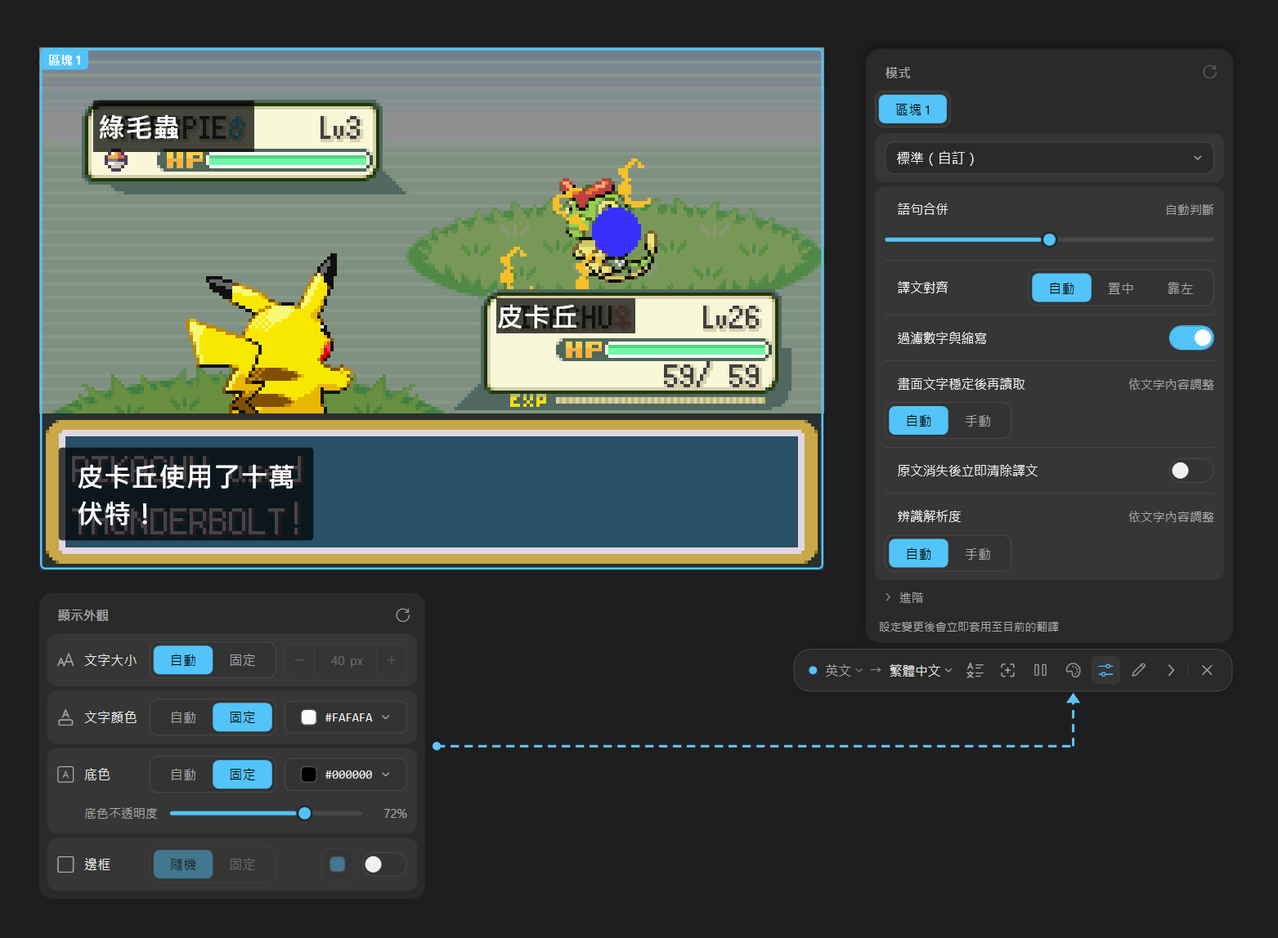
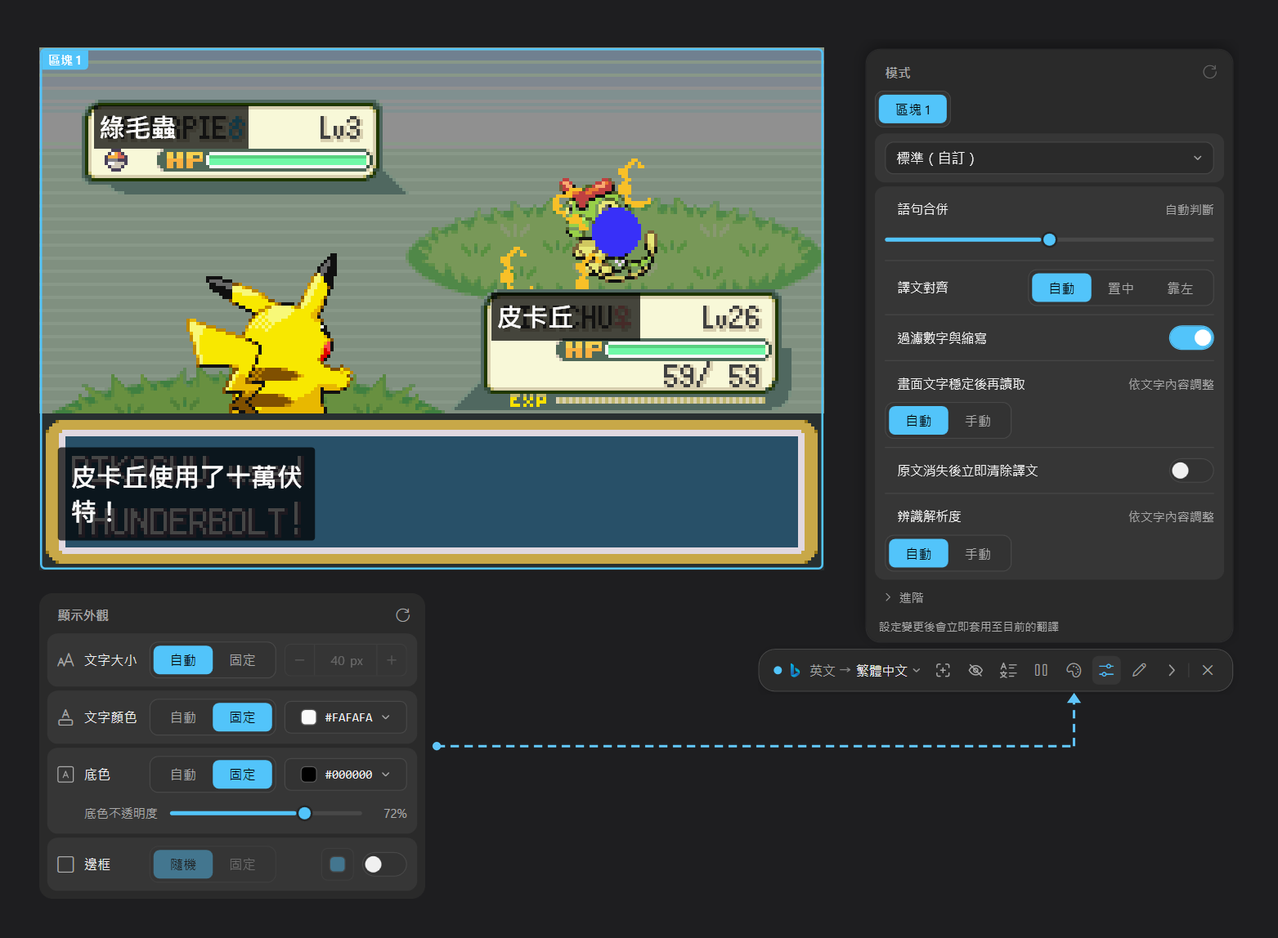
chore: 2.14.0 README 與官網補上德西法義葡辨識語言與即時翻譯翻譯中可隨時調整的說明，重拍設定頁、即時翻譯功能預覽與備援截圖

diff --git a/tools/site-i18n/ja.js b/tools/site-i18n/ja.js
@@ -35,6 +35,11 @@ otLocale('ja', {
   'capture.langs.en': '英語',
   'capture.langs.ja': '日本語',
   'capture.langs.ko': '韓国語',
+  'capture.langs.de': 'ドイツ語',
+  'capture.langs.es': 'スペイン語',
+  'capture.langs.fr': 'フランス語',
+  'capture.langs.it': 'イタリア語',
+  'capture.langs.pt': 'ポルトガル語',
   'capture.langs.ru': 'ロシア語',
   'capture.langs.uk': 'ウクライナ語',
   'capture.langs.more': 'すべて表示',
@@ -52,8 +57,8 @@ otLocale('ja', {
   'realtime.lede': '翻訳したい範囲を選ぶと、画面の文字を読み取り続けて訳文を自動で更新します。動画の字幕、ゲーム画面、マンガに向いており、訳文は元の位置にオーバーレイ表示されます。',
   'realtime.fact1.title': '2 つの取り込み方法',
   'realtime.fact1.body': '画面全体、または指定したウィンドウだけを取り込めます。',
-  'realtime.fact2.title': 'いつでも一時停止・再開',
-  'realtime.fact2.body': '一時停止すれば、終了せずに原文をそのまま見られます。',
+  'realtime.fact2.title': '翻訳中もいつでも調整',
+  'realtime.fact2.body': '翻訳サービス・言語・表示スタイルをその場で切り替えられ、やり直す必要はありません。',
   'realtime.mode.title': '画面の種類別に紹介',
   'realtime.mode.float': '種類',
   'realtime.mode.prose': '字幕・マンガ',
@@ -65,8 +70,8 @@ otLocale('ja', {
   'realtime.side.title': '原文対照で、訳文を別枠に表示',
   'realtime.side.body': 'フローティングバーの「原文対照」をオンにすると、元の画面はそのままに、訳文を独立した対照枠に表示します。原文と訳文を見比べるのに便利です。',
   'realtime.side.note': '対照枠は自由にドラッグ・拡大縮小でき、ブロックごとに閉じることもできます。',
-  'realtime.look.title': '翻訳中でもモードと表示をいつでも調整',
-  'realtime.look.body': 'フローティングバーからモードと表示スタイルのパネルを開くと、いつでも設定を調整でき、変更はすぐ現在の翻訳に反映されます。ブロックごとに別のモードも選べます。',
+  'realtime.look.title': '翻訳中でもいつでも調整',
+  'realtime.look.body': 'フローティングバーから翻訳サービスや言語の切り替え、モードや表示スタイルの調整ができ、訳文を非表示にして元の画面を確認したり、一時停止したりもできます。変更はすぐに反映され、やり直す必要はありません。',
   'more.lookup.title': 'テキストを選んで、ワンキーで翻訳',
   'more.lookup.tick1.title': '選んだテキストをそのまま読み込み',
   'more.lookup.tick1.body': 'テキストを選んでショートカットキーを押すと、自動で読み込んで訳文を表示します。コピーや貼り付けは不要です。',

diff --git a/tools/site-i18n/ko.js b/tools/site-i18n/ko.js
@@ -35,6 +35,11 @@ otLocale('ko', {
   'capture.langs.en': '영어',
   'capture.langs.ja': '일본어',
   'capture.langs.ko': '한국어',
+  'capture.langs.de': '독일어',
+  'capture.langs.es': '스페인어',
+  'capture.langs.fr': '프랑스어',
+  'capture.langs.it': '이탈리아어',
+  'capture.langs.pt': '포르투갈어',
   'capture.langs.ru': '러시아어',
   'capture.langs.uk': '우크라이나어',
   'capture.langs.more': '모두 보기',
@@ -52,8 +57,8 @@ otLocale('ko', {
   'realtime.lede': '번역할 영역을 지정하면 화면의 글자를 계속 인식해 번역문을 자동으로 갱신합니다. 영상 자막, 게임 화면, 만화 읽기에 적합하며 번역문은 원래 위치에 오버레이로 표시됩니다.',
   'realtime.fact1.title': '두 가지 가져오기 방식',
   'realtime.fact1.body': '전체 화면을 가져오거나 특정 창만 지정할 수 있습니다.',
-  'realtime.fact2.title': '언제든 일시 정지와 재개',
-  'realtime.fact2.body': '일시 정지하면 종료하지 않고 원문을 볼 수 있습니다.',
+  'realtime.fact2.title': '번역 중에도 언제든 조정',
+  'realtime.fact2.body': '번역 서비스, 언어, 표시 모양을 바로 바꿀 수 있어 다시 시작할 필요가 없습니다.',
   'realtime.mode.title': '화면 유형별 예시',
   'realtime.mode.float': '유형',
   'realtime.mode.prose': '자막·만화',
@@ -65,8 +70,8 @@ otLocale('ko', {
   'realtime.side.title': '원문 대조, 번역문은 따로 표시',
   'realtime.side.body': '플로팅 바의 「원문 대조」를 켜면 원래 화면은 그대로 두고 번역문을 별도의 대조 상자에 표시해, 원문과 번역 결과를 비교하기 쉽습니다.',
   'realtime.side.note': '대조 상자는 자유롭게 드래그하거나 크기를 조절할 수 있고, 블록별로 닫을 수도 있습니다.',
-  'realtime.look.title': '번역 중에도 모드와 표시 모양을 언제든 조정',
-  'realtime.look.body': '플로팅 바에서 모드와 표시 모양 패널을 열어 언제든 설정을 조정할 수 있으며, 변경 사항은 현재 번역에 바로 적용됩니다. 블록마다 다른 모드를 선택할 수도 있습니다.',
+  'realtime.look.title': '번역 중에도 언제든 조정',
+  'realtime.look.body': '플로팅 바에서 번역 서비스와 언어를 바꾸고 모드와 표시 모양을 조정할 수 있으며, 번역문을 숨겨 원래 화면을 보거나 일시 정지할 수도 있습니다. 변경 사항은 바로 적용되어 다시 시작할 필요가 없습니다.',
   'more.lookup.title': '텍스트를 선택하고 키 하나로 번역',
   'more.lookup.tick1.title': '선택한 텍스트를 자동으로 불러오기',
   'more.lookup.tick1.body': '텍스트를 선택하고 단축키를 누르면 자동으로 불러와 번역문을 보여 줍니다. 복사해서 붙여 넣을 필요가 없습니다.',

diff --git a/docs/ja/index.html b/docs/ja/index.html
@@ -235,6 +235,11 @@
             <li data-i18n="capture.langs.en">英語</li>
             <li data-i18n="capture.langs.ja">日本語</li>
             <li data-i18n="capture.langs.ko">韓国語</li>
+            <li data-i18n="capture.langs.de">ドイツ語</li>
+            <li data-i18n="capture.langs.es">スペイン語</li>
+            <li data-i18n="capture.langs.fr">フランス語</li>
+            <li data-i18n="capture.langs.it">イタリア語</li>
+            <li data-i18n="capture.langs.pt">ポルトガル語</li>
             <li data-i18n="capture.langs.ru">ロシア語</li>
             <li data-i18n="capture.langs.uk">ウクライナ語</li>
             <li class="langs__toggle" hidden><button type="button" class="langs__more" aria-expanded="false" data-less="閉じる" data-i18n-attr="data-less|capture.langs.less" data-i18n="capture.langs.more">すべて表示</button></li>
@@ -316,8 +321,8 @@
         <p data-i18n="realtime.fact1.body">画面全体、または指定したウィンドウだけを取り込めます。</p>
       </div>
       <div class="fact">
-        <h3 data-i18n="realtime.fact2.title">いつでも一時停止・再開</h3>
-        <p data-i18n="realtime.fact2.body">一時停止すれば、終了せずに原文をそのまま見られます。</p>
+        <h3 data-i18n="realtime.fact2.title">翻訳中もいつでも調整</h3>
+        <p data-i18n="realtime.fact2.body">翻訳サービス・言語・表示スタイルをその場で切り替えられ、やり直す必要はありません。</p>
       </div>
     </div>
 
@@ -465,8 +470,8 @@
 
     <div class="split subsection reveal">
       <div class="split__text">
-        <h3 class="h3" data-i18n="realtime.look.title">翻訳中でもモードと表示をいつでも調整</h3>
-        <p data-i18n="realtime.look.body">フローティングバーからモードと表示スタイルのパネルを開くと、いつでも設定を調整でき、変更はすぐ現在の翻訳に反映されます。ブロックごとに別のモードも選べます。</p>
+        <h3 class="h3" data-i18n="realtime.look.title">翻訳中でもいつでも調整</h3>
+        <p data-i18n="realtime.look.body">フローティングバーから翻訳サービスや言語の切り替え、モードや表示スタイルの調整ができ、訳文を非表示にして元の画面を確認したり、一時停止したりもできます。変更はすぐに反映され、やり直す必要はありません。</p>
       </div>
       <div class="split__media">
         <figure class="shot shot--app">

diff --git a/tools/site-i18n/en.js b/tools/site-i18n/en.js
@@ -35,6 +35,11 @@ otLocale('en', {
   'capture.langs.en': 'English',
   'capture.langs.ja': 'Japanese',
   'capture.langs.ko': 'Korean',
+  'capture.langs.de': 'German',
+  'capture.langs.es': 'Spanish',
+  'capture.langs.fr': 'French',
+  'capture.langs.it': 'Italian',
+  'capture.langs.pt': 'Portuguese',
   'capture.langs.ru': 'Russian',
   'capture.langs.uk': 'Ukrainian',
   'capture.langs.more': 'Show all',
@@ -52,8 +57,8 @@ otLocale('en', {
   'realtime.lede': 'Select the area to translate and the text on screen is recognised continuously, with the translation updating on its own. Made for video subtitles, game screens and reading manga, with the translation shown as an overlay right where the original was.',
   'realtime.fact1.title': 'Two capture sources',
   'realtime.fact1.body': 'Capture the whole screen, or just one window.',
-  'realtime.fact2.title': 'Pause and resume any time',
-  'realtime.fact2.body': 'Pausing shows the original text without shutting it down.',
+  'realtime.fact2.title': 'Adjust while translating',
+  'realtime.fact2.body': 'Switch the translation service, languages and appearance on the fly, without starting over.',
   'realtime.mode.title': 'Examples by screen type',
   'realtime.mode.float': 'Type',
   'realtime.mode.prose': 'Subtitles & Comics',
@@ -65,8 +70,8 @@ otLocale('en', {
   'realtime.side.title': 'Compare with original, translation shown separately',
   'realtime.side.body': 'Turn on "Compare with original" from the floating bar to keep the original screen as it is and show the translation in a separate compare box, so the two are easy to check against each other.',
   'realtime.side.note': 'The compare box can be dragged, resized or closed individually.',
-  'realtime.look.title': 'Change modes and appearance mid-translation',
-  'realtime.look.body': 'Open the Mode and Appearance panels from the floating bar to adjust settings at any time; changes apply to the current translation right away. Each block can use its own mode.',
+  'realtime.look.title': 'Adjust anything mid-translation',
+  'realtime.look.body': 'From the floating bar, switch the translation service and languages, adjust the mode and appearance, or hide the translation to see the original screen or pause; changes apply right away, without starting over.',
   'more.lookup.title': 'Select text, translate in one keystroke',
   'more.lookup.tick1.title': 'Picks up what you selected',
   'more.lookup.tick1.body': 'Select some text and press the hotkey: it is filled in and translated, with no copying and pasting.',

diff --git a/docs/ko/index.html b/docs/ko/index.html
@@ -235,6 +235,11 @@
             <li data-i18n="capture.langs.en">영어</li>
             <li data-i18n="capture.langs.ja">일본어</li>
             <li data-i18n="capture.langs.ko">한국어</li>
+            <li data-i18n="capture.langs.de">독일어</li>
+            <li data-i18n="capture.langs.es">스페인어</li>
+            <li data-i18n="capture.langs.fr">프랑스어</li>
+            <li data-i18n="capture.langs.it">이탈리아어</li>
+            <li data-i18n="capture.langs.pt">포르투갈어</li>
             <li data-i18n="capture.langs.ru">러시아어</li>
             <li data-i18n="capture.langs.uk">우크라이나어</li>
             <li class="langs__toggle" hidden><button type="button" class="langs__more" aria-expanded="false" data-less="접기" data-i18n-attr="data-less|capture.langs.less" data-i18n="capture.langs.more">모두 보기</button></li>
@@ -316,8 +321,8 @@
         <p data-i18n="realtime.fact1.body">전체 화면을 가져오거나 특정 창만 지정할 수 있습니다.</p>
       </div>
       <div class="fact">
-        <h3 data-i18n="realtime.fact2.title">언제든 일시 정지와 재개</h3>
-        <p data-i18n="realtime.fact2.body">일시 정지하면 종료하지 않고 원문을 볼 수 있습니다.</p>
+        <h3 data-i18n="realtime.fact2.title">번역 중에도 언제든 조정</h3>
+        <p data-i18n="realtime.fact2.body">번역 서비스, 언어, 표시 모양을 바로 바꿀 수 있어 다시 시작할 필요가 없습니다.</p>
       </div>
     </div>
 
@@ -465,8 +470,8 @@
 
     <div class="split subsection reveal">
       <div class="split__text">
-        <h3 class="h3" data-i18n="realtime.look.title">번역 중에도 모드와 표시 모양을 언제든 조정</h3>
-        <p data-i18n="realtime.look.body">플로팅 바에서 모드와 표시 모양 패널을 열어 언제든 설정을 조정할 수 있으며, 변경 사항은 현재 번역에 바로 적용됩니다. 블록마다 다른 모드를 선택할 수도 있습니다.</p>
+        <h3 class="h3" data-i18n="realtime.look.title">번역 중에도 언제든 조정</h3>
+        <p data-i18n="realtime.look.body">플로팅 바에서 번역 서비스와 언어를 바꾸고 모드와 표시 모양을 조정할 수 있으며, 번역문을 숨겨 원래 화면을 보거나 일시 정지할 수도 있습니다. 변경 사항은 바로 적용되어 다시 시작할 필요가 없습니다.</p>
       </div>
       <div class="split__media">
         <figure class="shot shot--app">

diff --git a/tools/site-i18n/zh-Hans.js b/tools/site-i18n/zh-Hans.js
@@ -35,6 +35,11 @@ otLocale('zh-Hans', {
   'capture.langs.en': '英文',
   'capture.langs.ja': '日文',
   'capture.langs.ko': '韩文',
+  'capture.langs.de': '德文',
+  'capture.langs.es': '西班牙文',
+  'capture.langs.fr': '法文',
+  'capture.langs.it': '意大利文',
+  'capture.langs.pt': '葡萄牙文',
   'capture.langs.ru': '俄文',
   'capture.langs.uk': '乌克兰文',
   'capture.langs.more': '查看全部',
@@ -52,8 +57,8 @@ otLocale('zh-Hans', {
   'realtime.lede': '框选翻译区域后，持续识别画面文字并自动更新译文。适用于视频字幕、游戏画面与漫画阅读，译文直接显示于原位置。',
   'realtime.fact1.title': '两种画面来源',
   'realtime.fact1.body': '可抓取整个屏幕，或指定单一窗口。',
-  'realtime.fact2.title': '随时暂停与继续',
-  'realtime.fact2.body': '暂停时可直接查看原文，不必关闭。',
+  'realtime.fact2.title': '翻译中随时调整',
+  'realtime.fact2.body': '翻译服务、语言与外观都能直接切换，不必重新开始。',
   'realtime.mode.title': '按画面类型展示',
   'realtime.mode.float': '类型',
   'realtime.mode.prose': '字幕・漫画',
@@ -65,8 +70,8 @@ otLocale('zh-Hans', {
   'realtime.side.title': '原文对照，译文独立显示',
   'realtime.side.body': '通过浮动窗口栏的「原文对照」功能，可保留原始画面，并将译文显示在独立的对照框中，方便比对原文与翻译结果。',
   'realtime.side.note': '对照框可自由拖动、缩放或单独关闭。',
-  'realtime.look.title': '翻译中也能随时调整模式与外观',
-  'realtime.look.body': '通过浮动窗口栏打开模式与显示外观面板，即可随时调整设置，并立即应用到当前的翻译。各区块也能分别选用不同模式。',
+  'realtime.look.title': '翻译中也能随时调整',
+  'realtime.look.body': '通过浮动窗口栏即可切换翻译服务与语言、调整模式与外观，也能隐藏译文查看原画面或暂停翻译，变更立即生效，不必重新开始。',
   'more.lookup.title': '选取文字，一键翻译',
   'more.lookup.tick1.title': '自动带入选取的文字',
   'more.lookup.tick1.body': '选取文字后按下快捷键，会自动带入并显示译文，无需复制粘贴。',

diff --git a/docs/en/index.html b/docs/en/index.html
@@ -235,6 +235,11 @@
             <li data-i18n="capture.langs.en">English</li>
             <li data-i18n="capture.langs.ja">Japanese</li>
             <li data-i18n="capture.langs.ko">Korean</li>
+            <li data-i18n="capture.langs.de">German</li>
+            <li data-i18n="capture.langs.es">Spanish</li>
+            <li data-i18n="capture.langs.fr">French</li>
+            <li data-i18n="capture.langs.it">Italian</li>
+            <li data-i18n="capture.langs.pt">Portuguese</li>
             <li data-i18n="capture.langs.ru">Russian</li>
             <li data-i18n="capture.langs.uk">Ukrainian</li>
             <li class="langs__toggle" hidden><button type="button" class="langs__more" aria-expanded="false" data-less="Show less" data-i18n-attr="data-less|capture.langs.less" data-i18n="capture.langs.more">Show all</button></li>
@@ -316,8 +321,8 @@
         <p data-i18n="realtime.fact1.body">Capture the whole screen, or just one window.</p>
       </div>
       <div class="fact">
-        <h3 data-i18n="realtime.fact2.title">Pause and resume any time</h3>
-        <p data-i18n="realtime.fact2.body">Pausing shows the original text without shutting it down.</p>
+        <h3 data-i18n="realtime.fact2.title">Adjust while translating</h3>
+        <p data-i18n="realtime.fact2.body">Switch the translation service, languages and appearance on the fly, without starting over.</p>
       </div>
     </div>
 
@@ -465,8 +470,8 @@
 
     <div class="split subsection reveal">
       <div class="split__text">
-        <h3 class="h3" data-i18n="realtime.look.title">Change modes and appearance mid-translation</h3>
-        <p data-i18n="realtime.look.body">Open the Mode and Appearance panels from the floating bar to adjust settings at any time; changes apply to the current translation right away. Each block can use its own mode.</p>
+        <h3 class="h3" data-i18n="realtime.look.title">Adjust anything mid-translation</h3>
+        <p data-i18n="realtime.look.body">From the floating bar, switch the translation service and languages, adjust the mode and appearance, or hide the translation to see the original screen or pause; changes apply right away, without starting over.</p>
       </div>
       <div class="split__media">
         <figure class="shot shot--app">

diff --git a/docs/index.html b/docs/index.html
@@ -235,6 +235,11 @@
             <li data-i18n="capture.langs.en">英文</li>
             <li data-i18n="capture.langs.ja">日文</li>
             <li data-i18n="capture.langs.ko">韓文</li>
+            <li data-i18n="capture.langs.de">德文</li>
+            <li data-i18n="capture.langs.es">西班牙文</li>
+            <li data-i18n="capture.langs.fr">法文</li>
+            <li data-i18n="capture.langs.it">義大利文</li>
+            <li data-i18n="capture.langs.pt">葡萄牙文</li>
             <li data-i18n="capture.langs.ru">俄文</li>
             <li data-i18n="capture.langs.uk">烏克蘭文</li>
             <li class="langs__toggle" hidden><button type="button" class="langs__more" aria-expanded="false" data-less="收起" data-i18n-attr="data-less|capture.langs.less" data-i18n="capture.langs.more">查看全部</button></li>
@@ -316,8 +321,8 @@
         <p data-i18n="realtime.fact1.body">可擷取整個螢幕，或指定單一視窗。</p>
       </div>
       <div class="fact">
-        <h3 data-i18n="realtime.fact2.title">隨時暫停與繼續</h3>
-        <p data-i18n="realtime.fact2.body">暫停時可直接查看原文，不必關閉。</p>
+        <h3 data-i18n="realtime.fact2.title">翻譯中隨時調整</h3>
+        <p data-i18n="realtime.fact2.body">翻譯服務、語言與外觀都能直接切換，不必重新開始。</p>
       </div>
     </div>
 
@@ -465,8 +470,8 @@
 
     <div class="split subsection reveal">
       <div class="split__text">
-        <h3 class="h3" data-i18n="realtime.look.title">翻譯中也能隨時調整模式與外觀</h3>
-        <p data-i18n="realtime.look.body">透過浮動視窗列開啟模式與顯示外觀面板，即可隨時調整設定，並立即套用至目前的翻譯。各區塊也能分別選用不同模式。</p>
+        <h3 class="h3" data-i18n="realtime.look.title">翻譯中也能隨時調整</h3>
+        <p data-i18n="realtime.look.body">透過浮動視窗列即可切換翻譯服務與語言、調整模式與外觀，也能隱藏譯文查看原畫面或暫停翻譯，變更立即套用，不必重新開始。</p>
       </div>
       <div class="split__media">
         <figure class="shot shot--app">

diff --git a/docs/zh-Hans/index.html b/docs/zh-Hans/index.html
@@ -235,6 +235,11 @@
             <li data-i18n="capture.langs.en">英文</li>
             <li data-i18n="capture.langs.ja">日文</li>
             <li data-i18n="capture.langs.ko">韩文</li>
+            <li data-i18n="capture.langs.de">德文</li>
+            <li data-i18n="capture.langs.es">西班牙文</li>
+            <li data-i18n="capture.langs.fr">法文</li>
+            <li data-i18n="capture.langs.it">意大利文</li>
+            <li data-i18n="capture.langs.pt">葡萄牙文</li>
             <li data-i18n="capture.langs.ru">俄文</li>
             <li data-i18n="capture.langs.uk">乌克兰文</li>
             <li class="langs__toggle" hidden><button type="button" class="langs__more" aria-expanded="false" data-less="收起" data-i18n-attr="data-less|capture.langs.less" data-i18n="capture.langs.more">查看全部</button></li>
@@ -316,8 +321,8 @@
         <p data-i18n="realtime.fact1.body">可抓取整个屏幕，或指定单一窗口。</p>
       </div>
       <div class="fact">
-        <h3 data-i18n="realtime.fact2.title">随时暂停与继续</h3>
-        <p data-i18n="realtime.fact2.body">暂停时可直接查看原文，不必关闭。</p>
+        <h3 data-i18n="realtime.fact2.title">翻译中随时调整</h3>
+        <p data-i18n="realtime.fact2.body">翻译服务、语言与外观都能直接切换，不必重新开始。</p>
       </div>
     </div>
 
@@ -465,8 +470,8 @@
 
     <div class="split subsection reveal">
       <div class="split__text">
-        <h3 class="h3" data-i18n="realtime.look.title">翻译中也能随时调整模式与外观</h3>
-        <p data-i18n="realtime.look.body">通过浮动窗口栏打开模式与显示外观面板，即可随时调整设置，并立即应用到当前的翻译。各区块也能分别选用不同模式。</p>
+        <h3 class="h3" data-i18n="realtime.look.title">翻译中也能随时调整</h3>
+        <p data-i18n="realtime.look.body">通过浮动窗口栏即可切换翻译服务与语言、调整模式与外观，也能隐藏译文查看原画面或暂停翻译，变更立即生效，不必重新开始。</p>
       </div>
       <div class="split__media">
         <figure class="shot shot--app">

diff --git a/docs/zh-TW/index.html b/docs/zh-TW/index.html
@@ -235,6 +235,11 @@
             <li data-i18n="capture.langs.en">英文</li>
             <li data-i18n="capture.langs.ja">日文</li>
             <li data-i18n="capture.langs.ko">韓文</li>
+            <li data-i18n="capture.langs.de">德文</li>
+            <li data-i18n="capture.langs.es">西班牙文</li>
+            <li data-i18n="capture.langs.fr">法文</li>
+            <li data-i18n="capture.langs.it">義大利文</li>
+            <li data-i18n="capture.langs.pt">葡萄牙文</li>
             <li data-i18n="capture.langs.ru">俄文</li>
             <li data-i18n="capture.langs.uk">烏克蘭文</li>
             <li class="langs__toggle" hidden><button type="button" class="langs__more" aria-expanded="false" data-less="收起" data-i18n-attr="data-less|capture.langs.less" data-i18n="capture.langs.more">查看全部</button></li>
@@ -316,8 +321,8 @@
         <p data-i18n="realtime.fact1.body">可擷取整個螢幕，或指定單一視窗。</p>
       </div>
       <div class="fact">
-        <h3 data-i18n="realtime.fact2.title">隨時暫停與繼續</h3>
-        <p data-i18n="realtime.fact2.body">暫停時可直接查看原文，不必關閉。</p>
+        <h3 data-i18n="realtime.fact2.title">翻譯中隨時調整</h3>
+        <p data-i18n="realtime.fact2.body">翻譯服務、語言與外觀都能直接切換，不必重新開始。</p>
       </div>
     </div>
 
@@ -465,8 +470,8 @@
 
     <div class="split subsection reveal">
       <div class="split__text">
-        <h3 class="h3" data-i18n="realtime.look.title">翻譯中也能隨時調整模式與外觀</h3>
-        <p data-i18n="realtime.look.body">透過浮動視窗列開啟模式與顯示外觀面板，即可隨時調整設定，並立即套用至目前的翻譯。各區塊也能分別選用不同模式。</p>
+        <h3 class="h3" data-i18n="realtime.look.title">翻譯中也能隨時調整</h3>
+        <p data-i18n="realtime.look.body">透過浮動視窗列即可切換翻譯服務與語言、調整模式與外觀，也能隱藏譯文查看原畫面或暫停翻譯，變更立即套用，不必重新開始。</p>
       </div>
       <div class="split__media">
         <figure class="shot shot--app">

diff --git a/README.md b/README.md
@@ -106,8 +106,8 @@ screen capture needs Windows 11 24H2 or later, window capture needs Windows 10 1
 
 ### Translation Blocks (area selection)
 
-> The real-time translation hotkey (default Ctrl + Alt + S) starts selecting blocks when it isn't running, and starts translating when pressed again during selection; while translating, it pauses / resumes,  
-> When a screen doesn't need translating, or when you want to read the original text, pause first and resume later — there's no need to shut down real-time translation.
+> The real-time translation hotkey (default Ctrl + Alt + S) starts selecting blocks when it isn't running, and starts translating when pressed again during selection; while translating, it pauses / resumes.  
+> While translating, the floating bar lets you switch the translation service and languages, adjust the mode and appearance, or hide the translation to see the original screen — there's no need to shut down real-time translation.
 
 Examples by screen type:
 #### Subtitles & Comics
@@ -225,11 +225,11 @@ Translates with an AI model that takes earlier translations into account, so nam
 
 ### Recognition languages (OCR)
 
-OCR runs entirely on your PC, and images are never uploaded. Chinese, English, and Japanese are built in; for any other language, you'll be asked whether to download its model the first time you pick it, and you can manage them later under **Recognition models** in Settings.
+OCR runs entirely on your PC, and images are never uploaded. Chinese, English, Japanese, German, Spanish, French, Italian, and Portuguese are built in; for any other language, you'll be asked whether to download its model the first time you pick it, and you can manage them later under **Recognition models** in Settings.
 
 | Language | Model | How to get it |
 |----------|-------|---------------|
-| Chinese (Traditional / Simplified), English, Japanese | `PP-OCRv6_small_rec` | Built in |
+| Chinese (Traditional / Simplified), English, Japanese, German, Spanish, French, Italian, Portuguese | `PP-OCRv6_small_rec` | Built in |
 | Korean | `korean_PP-OCRv5_rec_mobile` | Download (about 14 MB) |
 | Russian, Ukrainian | `cyrillic_PP-OCRv5_rec_mobile` | Download (about 8 MB) |
 | Vertical Japanese (manga) | [comic-text-and-bubble-detector](https://huggingface.co/ogkalu/comic-text-and-bubble-detector), [CRAFT](https://github.com/clovaai/CRAFT-pytorch) (MIT), [manga-ocr-base-CPT-flex](https://huggingface.co/muscgab/manga-ocr-base-CPT-flex) (CC BY-NC-SA 4.0) | Download (about 342 MB, requires a graphics card) |
